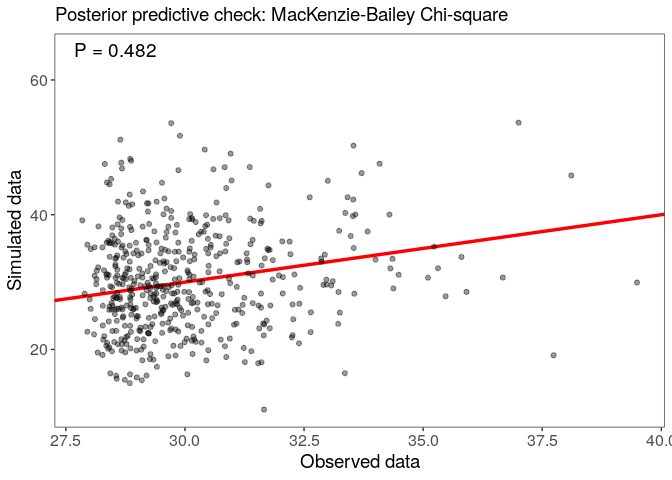
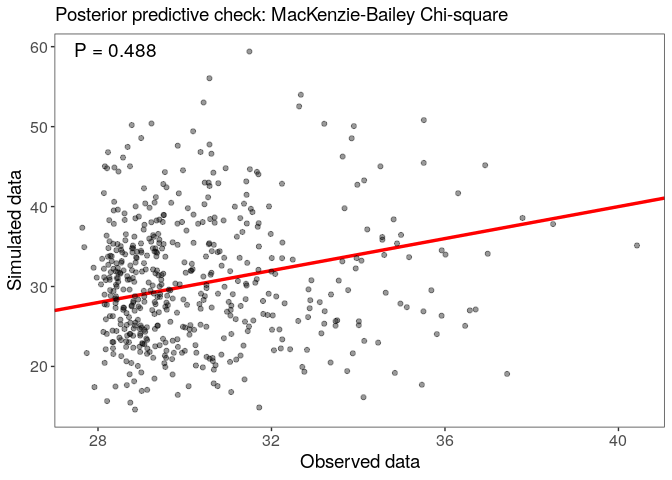
Update README and bump version

diff --git a/README.md b/README.md
@@ -10,8 +10,9 @@ interface compatible with
 [unmarked](https://cran.r-project.org/web/packages/unmarked/index.html),
 but the model is fit using MCMC with [Stan](https://mc-stan.org/)
 instead of using maximum likelihood. Right now there are Stan versions
-of unmarked functions `occu`, `occuRN`, `colext`, and `pcount`
-(`stan_occu`, `stan_occuRN`, `stan_colext`, `stan_pcount`).
+of unmarked functions `occu`, `occuRN`, `colext`, `pcount`, and
+`distsamp` (`stan_occu`, `stan_occuRN`, `stan_colext`, `stan_pcount`,
+`stan_distsamp`).
 
 Advantages compared to `unmarked`:
 
@@ -69,22 +70,24 @@ options(mc.cores=3) #number of parallel cores to use
 (fm <- stan_occu(~x2 ~x1 + (1|group), umf, refresh=0))
 ```
 
+    ## Warning: Some Pareto k diagnostic values are slightly high. See help('pareto-k-diagnostic') for details.
+
     ## 
     ## Call:
     ## stan_occu(formula = ~x2 ~ x1 + (1 | group), data = umf, refresh = 0)
     ## 
-    ## Occupancy:
+    ## Occupancy (logit-scale):
     ##                 Estimate    SD   2.5%  97.5% n_eff  Rhat
-    ## (Intercept)        0.323 0.304 -0.293  0.905  1074 1.001
-    ## x1                -0.466 0.117 -0.695 -0.244  5627 0.999
-    ## sigma [1|group]    1.404 0.278  0.946  2.022  3014 1.002
+    ## (Intercept)        0.328 0.294 -0.244  0.909   997 1.003
+    ## x1                -0.466 0.115 -0.695 -0.248  5433 0.999
+    ## sigma [1|group]    1.397 0.286  0.936  2.074  2529 0.999
     ## 
-    ## Detection:
+    ## Detection (logit-scale):
     ##             Estimate     SD  2.5% 97.5% n_eff Rhat
-    ## (Intercept)    0.381 0.0591 0.266 0.496  6364    1
-    ## x2             0.587 0.0603 0.471 0.708  6832    1
+    ## (Intercept)    0.381 0.0622 0.259 0.503  6282    1
+    ## x2             0.588 0.0632 0.466 0.714  7106    1
     ## 
-    ## LOOIC: 2268.389
+    ## LOOIC: 2268.24
 
 Examine residuals for occupancy and detection submodels (following
 [Wright et al. 2019](https://doi.org/10.1002/ecy.2703)). Each panel
@@ -104,11 +107,19 @@ the MacKenzie-Bailey chi-square test:
 ```
 
     ## MacKenzie-Bailey Chi-square 
-    ## Point estimate = 30.054
-    ## Posterior predictive p = 0.482
+    ## Point estimate = 30.325
+    ## Posterior predictive p = 0.488
 
 ``` r
 plot(fm_fit)
 ```
 
 ![](README_figs/README-gof-1.png)<!-- -->
+
+Look at the marginal effect of `x2` on detection:
+
+``` r
+plot_marginal(fm, "det")
+```
+
+![](README_figs/README-marginal-1.png)<!-- -->
